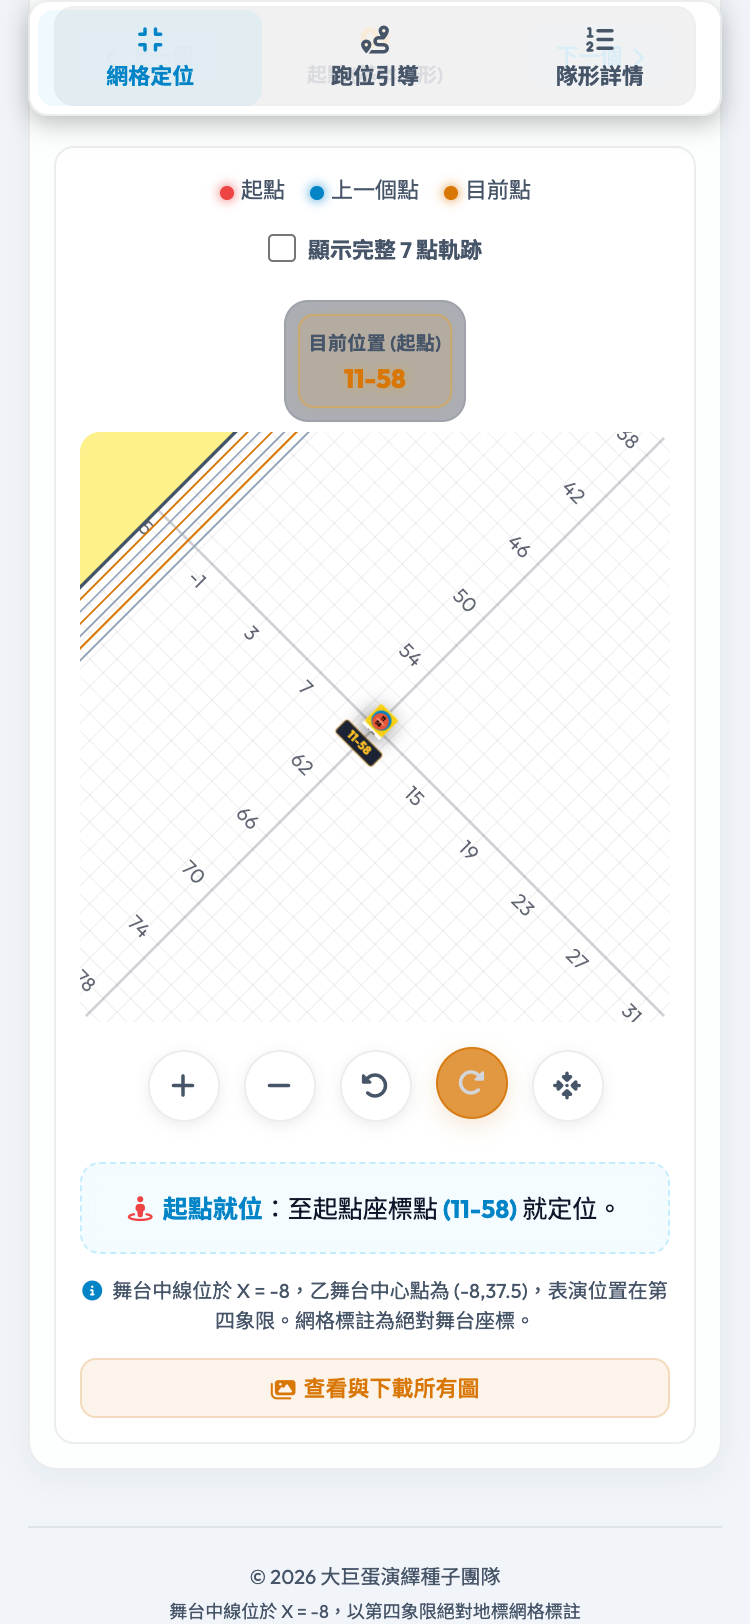
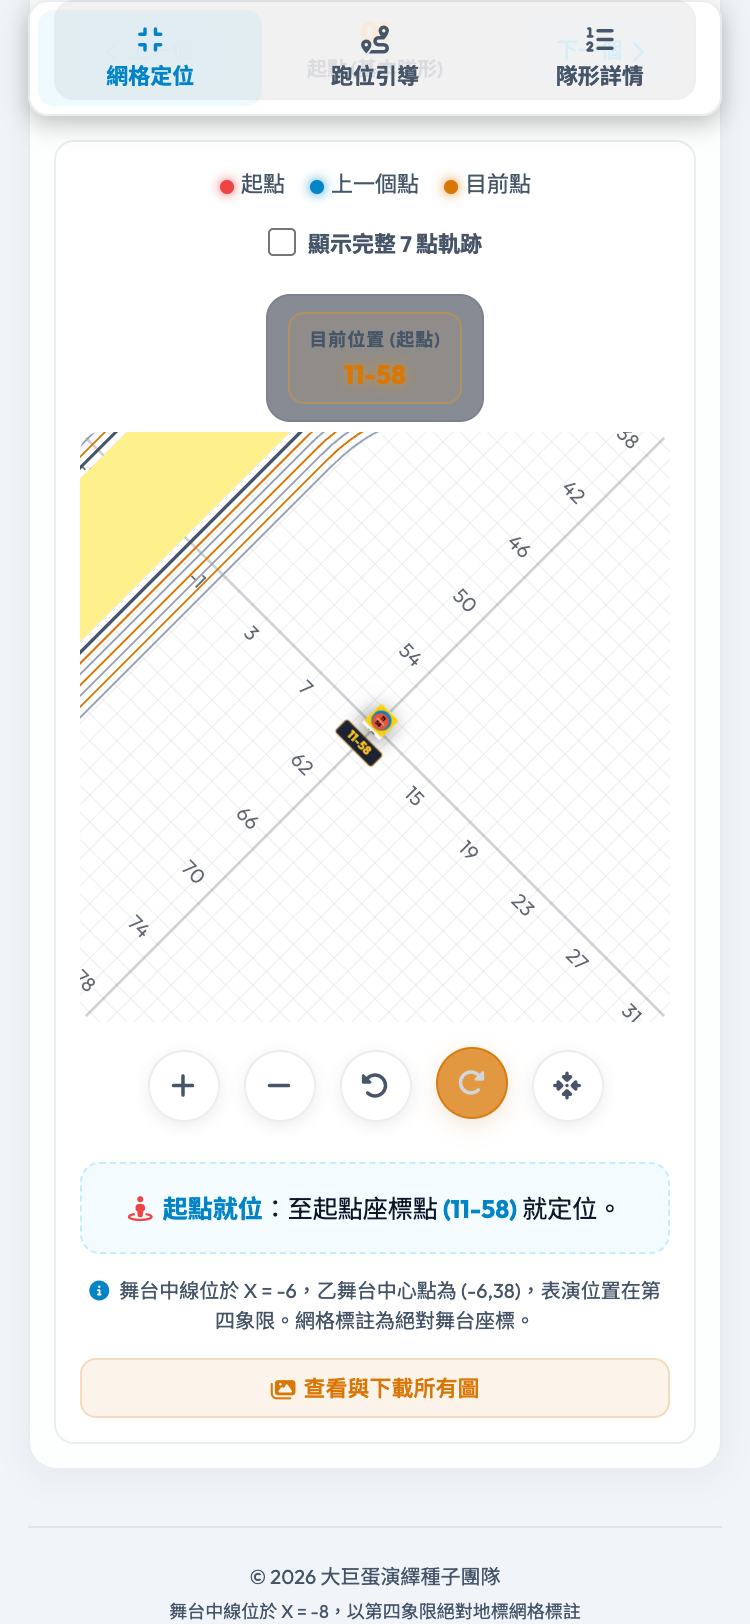
data: import 1217 performers roster update; regenerate screenshots and manual

Changed region(s): [[0.092, 0.0924, 0.7053, 0.431], [0.092, 0.7697, 0.8893, 0.8005], [0.092, 0.2463, 0.1533, 0.3079]]

diff --git a/data.js b/data.js
@@ -12,31 +12,31 @@ const performersData = [
   { category: "A白", id: "2-51", name: "", circle: "1.3-47.4", xingYuan: "七階東1-49.3", jingSi: "七階東2-50.5", lamp: "七階東3-50.3", noBoat: "3.8-45.8", bigV: "2.2-48.7" },
   { category: "A白", id: "2-52", name: "", circle: "0.6-48", xingYuan: "七階東1-53.6", jingSi: "四階東-50.5", lamp: "七階東4-50.6", noBoat: "3.4-46.4", bigV: "1.9-49.7" },
   { category: "A白", id: "2-53", name: "", circle: "9.9-45.2", xingYuan: "七階東1-54.5", jingSi: "六階東-52", lamp: "七階東3-50.8", noBoat: "3-47.2", bigV: "1.1-50.4" },
-  { category: "A白", id: "3-29", name: "巫逢益", circle: "4.2-31.3", xingYuan: "3-27.8", jingSi: "乙舞台\n下層精舍八階東-38.8", lamp: "3-22.8", noBoat: "3-22.8", bigV: "7-28.0" },
-  { category: "A白", id: "3-30", name: "陳逸駿", circle: "4.8-32.2", xingYuan: "3-28.6", jingSi: "乙舞台\n下層精舍六階東-39", lamp: "3-23.6", noBoat: "3-23.6", bigV: "6.6-28.9" },
+  { category: "A白", id: "3月29日", name: "巫逢益", circle: "4.2-31.3", xingYuan: "3-27.8", jingSi: "乙舞台\n下層精舍八階東-38.8", lamp: "3-22.8", noBoat: "3-22.8", bigV: "7-28.0" },
+  { category: "A白", id: "3月30日", name: "陳逸駿", circle: "4.8-32.2", xingYuan: "3-28.6", jingSi: "乙舞台\n下層精舍六階東-39", lamp: "3-23.6", noBoat: "3-23.6", bigV: "6.6-28.9" },
   { category: "A白", id: "3-47", name: "張植翔", circle: "4.8-44.8", xingYuan: "七階東2-52.4", jingSi: "乙舞台\n下層精舍二階東-39.4", lamp: "二階東-49.4", noBoat: "6.2-45.2", bigV: "4.9-40.5" },
   { category: "A白", id: "3-48", name: "林仕豪", circle: "4.3-45.7", xingYuan: "七階東2-53.2", jingSi: "乙舞台\n下層精舍四階東-39.2", lamp: "一階東-50.6", noBoat: "5.8-45.8", bigV: "4.4-41.5" },
   { category: "A白", id: "3-49", name: "林文華", circle: "3.6-46.5", xingYuan: "七階東2-54", jingSi: "六階東-49", lamp: "三階東-49.6", noBoat: "5.4-46.6", bigV: "4-42.3" },
   { category: "A白", id: "3-50", name: "", circle: "3-47.2", xingYuan: "七階東2-54.8", jingSi: "二階東-49", lamp: "五階東-50", noBoat: "4.8-47.4", bigV: "6.2-40.5" },
   { category: "A白", id: "3-51", name: "", circle: "2.2-47.9", xingYuan: "七階東2-55.8", jingSi: "六階東-50.5", lamp: "六階東-51.6", noBoat: "4.4-48.2", bigV: "5.8-41.5" },
   { category: "A白", id: "3-52", name: "", circle: "1.5-48.5", xingYuan: "七階東2-56.6", jingSi: "二階東-50.5", lamp: "七階東-51.4", noBoat: "3.8-48.8", bigV: "5.2-42.4" },
-  { category: "A白", id: "7-29", name: "吳敏綺", circle: "4.9-26.3", xingYuan: "4月25日", jingSi: "7月29日", lamp: "7-22.8", noBoat: "7-22.8", bigV: "8.8-32.5" },
-  { category: "A白", id: "7-30", name: "黃靖宜", circle: "5.7-27", xingYuan: "4-25.8", jingSi: "7月30日", lamp: "7-23.6", noBoat: "7-23.6", bigV: "8.2-33.2" },
-  { category: "A白", id: "7-31", name: "吳若綺", circle: "6.3-27.8", xingYuan: "4-26.6", jingSi: "7月31日", lamp: "7-24.4", noBoat: "7-24.4", bigV: "7.9-34.2" },
+  { category: "A白", id: "7月29日", name: "吳敏綺", circle: "4.9-26.3", xingYuan: "4月25日", jingSi: "7月29日", lamp: "7-22.8", noBoat: "7-22.8", bigV: "8.8-32.5" },
+  { category: "A白", id: "7月30日", name: "黃靖宜", circle: "5.7-27", xingYuan: "4-25.8", jingSi: "7月30日", lamp: "7-23.6", noBoat: "7-23.6", bigV: "8.2-33.2" },
+  { category: "A白", id: "7月31日", name: "吳若綺", circle: "6.3-27.8", xingYuan: "4-26.6", jingSi: "7月31日", lamp: "7-24.4", noBoat: "7-24.4", bigV: "7.9-34.2" },
   { category: "A白", id: "7-32", name: "吳頤晨", circle: "6.9-28.6", xingYuan: "4-27.4", jingSi: "7-32", lamp: "7-25.2", noBoat: "7-25.2", bigV: "7.5-35.2" },
   { category: "A白", id: "7-33", name: "楊仙榮", circle: "7.5-29.4", xingYuan: "4-28.2", jingSi: "7-33", lamp: "7月26日", noBoat: "7月26日", bigV: "7.1-36.1" },
   { category: "A白", id: "7-34", name: "買渝瑩", circle: "8.1-30.3", xingYuan: "4月29日", jingSi: "7-34", lamp: "7-26.8", noBoat: "7-26.8", bigV: "6.7-37" },
   { category: "A白", id: "7-35", name: "賴怡秀", circle: "4-35", xingYuan: "8-46.2", jingSi: "7-35", lamp: "十四階小帆-37.3", noBoat: "2.9-32.6", bigV: "6.2-37.9" },
   { category: "A白", id: "7-36", name: "許雅茜", circle: "4.3-36", xingYuan: "8-47", jingSi: "7-36", lamp: "十四階小帆-38.1", noBoat: "3.5-33.7", bigV: "5.8-38.8" },
-  { category: "A白", id: "8-29", name: "葉莉涵", circle: "8-28.5", xingYuan: "5-24.6", jingSi: "8月29日", lamp: "8-22.8", noBoat: "8-22.8", bigV: "10.1-32.5" },
-  { category: "A白", id: "8-30", name: "陳玥汝", circle: "8.7-29.4", xingYuan: "5-25.4", jingSi: "8月30日", lamp: "8-23.6", noBoat: "8-23.6", bigV: "9.7-33.2" },
-  { category: "A白", id: "8-31", name: "周宥妤", circle: "32.2-30.3", xingYuan: "5-26.2", jingSi: "8月31日", lamp: "8-24.4", noBoat: "8-24.4", bigV: "9.2-34.2" },
+  { category: "A白", id: "8月29日", name: "葉莉涵", circle: "8-28.5", xingYuan: "5-24.6", jingSi: "8月29日", lamp: "8-22.8", noBoat: "8-22.8", bigV: "10.1-32.5" },
+  { category: "A白", id: "8月30日", name: "陳玥汝", circle: "8.7-29.4", xingYuan: "5-25.4", jingSi: "8月30日", lamp: "8-23.6", noBoat: "8-23.6", bigV: "9.7-33.2" },
+  { category: "A白", id: "8月31日", name: "周宥妤", circle: "32.2-30.3", xingYuan: "5-26.2", jingSi: "8月31日", lamp: "8-24.4", noBoat: "8-24.4", bigV: "9.2-34.2" },
   { category: "A白", id: "8-32", name: "李曉如", circle: "32.6-31.2", xingYuan: "5-37", jingSi: "8-32", lamp: "8-25.2", noBoat: "8-25.2", bigV: "8.9-35.2" },
   { category: "A白", id: "8-33", name: "吳桂英", circle: "8.6-31.2", xingYuan: "5-27.8", jingSi: "8-33", lamp: "8月26日", noBoat: "8月26日", bigV: "8.3-36.1" },
   { category: "A白", id: "8-34", name: "莊錦幸", circle: "9-32.1", xingYuan: "5-28.6", jingSi: "8-34", lamp: "8-26.8", noBoat: "8-26.8", bigV: "7.9-37" },
   { category: "A白", id: "8-35", name: "曾彥禎", circle: "4.5-33.6", xingYuan: "9-46.8", jingSi: "8-35", lamp: "十四階小帆-37", noBoat: "3.8-32.9", bigV: "7.5-37.9" },
-  { category: "A白", id: "9-29", name: "葉宜欣", circle: "9.5-28.9", xingYuan: "6-24.2", jingSi: "9月29日", lamp: "9-22.8", noBoat: "9-22.8", bigV: "12.3-41.5" },
-  { category: "A白", id: "9-30", name: "周育嫻", circle: "10-29.8", xingYuan: "6月25日", jingSi: "9月30日", lamp: "9-23.6", noBoat: "9-23.6", bigV: "11.9-42.2" },
+  { category: "A白", id: "9月29日", name: "葉宜欣", circle: "9.5-28.9", xingYuan: "6-24.2", jingSi: "9月29日", lamp: "9-22.8", noBoat: "9-22.8", bigV: "12.3-41.5" },
+  { category: "A白", id: "9月30日", name: "周育嫻", circle: "10-29.8", xingYuan: "6月25日", jingSi: "9月30日", lamp: "9-23.6", noBoat: "9-23.6", bigV: "11.9-42.2" },
   { category: "A白", id: "9-31", name: "鄒燕", circle: "10.4-30.6", xingYuan: "6-25.8", jingSi: "9-31", lamp: "9-24.4", noBoat: "9-24.4", bigV: "11.4-43.2" },
   { category: "A白", id: "9-32", name: "宋水蘭", circle: "10.9-31.6", xingYuan: "6-26.6", jingSi: "9-32", lamp: "9-25.2", noBoat: "9-25.2", bigV: "11.1-44.1" },
   { category: "A白", id: "9-33", name: "鄭喬倪", circle: "10-32.2", xingYuan: "6-27.4", jingSi: "9-33", lamp: "9月26日", noBoat: "9月26日", bigV: "10.6-45" },
@@ -102,21 +102,21 @@ const performersData = [
   { category: "A白", id: "27-33", name: "", circle: "29.1-34.4", xingYuan: "21-29", jingSi: "27-33", lamp: "27-26", noBoat: "27-26", bigV: "23.1-31.6" },
   { category: "A白", id: "27-34", name: "", circle: "29.2-35.4", xingYuan: "21-29.8", jingSi: "27-34", lamp: "27-26.8", noBoat: "27-26.8", bigV: "22.8-32.5" },
   { category: "A白", id: "27-35", name: "", circle: "29.3-36.4", xingYuan: "12-11.4", jingSi: "27-35", lamp: "6.2-34", noBoat: "10.8-38.8", bigV: "17-44.1" },
-  { category: "A藍", id: "4-29", name: "邱崇賢", circle: "4.5-30", xingYuan: "9-31.4", jingSi: "4月29日", lamp: "4-22.8", noBoat: "4-22.8", bigV: "3.9-26.1" },
-  { category: "A藍", id: "4-30", name: "黃鴻麟", circle: "5.1-30.8", xingYuan: "9-32.2", jingSi: "4月30日", lamp: "4-23.7", noBoat: "4-23.7", bigV: "3.4-27" },
+  { category: "A藍", id: "4月29日", name: "邱崇賢", circle: "4.5-30", xingYuan: "9-31.4", jingSi: "4月29日", lamp: "4-22.8", noBoat: "4-22.8", bigV: "3.9-26.1" },
+  { category: "A藍", id: "4月30日", name: "黃鴻麟", circle: "5.1-30.8", xingYuan: "9-32.2", jingSi: "4月30日", lamp: "4-23.7", noBoat: "4-23.7", bigV: "3.4-27" },
   { category: "A藍", id: "4-31", name: "丁秉宏", circle: "5.6-31.7", xingYuan: "9-33", jingSi: "4-31", lamp: "4-24.4", noBoat: "4-24.4", bigV: "46109" },
   { category: "A藍", id: "4-32", name: "譚文忠", circle: "6.1-32.6", xingYuan: "9-33.8", jingSi: "4-32", lamp: "4-25.2", noBoat: "4-25.2", bigV: "2.5-28.9" },
   { category: "A藍", id: "4-45", name: "", circle: "5.6-45.3", xingYuan: "2-48.2", jingSi: "4-45", lamp: "12.4-40", noBoat: "12.4-40", bigV: "3.6-40.6" },
-  { category: "A藍", id: "5-29", name: "徐建發", circle: "4.7-28.8", xingYuan: "10-28.6", jingSi: "5月29日", lamp: "5-22.8", noBoat: "5-22.8", bigV: "3.9-28.9" },
-  { category: "A藍", id: "5-30", name: "陳金傳", circle: "5.3-29.5", xingYuan: "10-29.4", jingSi: "5月30日", lamp: "5-23.7", noBoat: "5-23.7", bigV: "3.4-29.8" },
-  { category: "A藍", id: "5-31", name: "陳膺洲", circle: "5.9-30.4", xingYuan: "10-30.2", jingSi: "5月31日", lamp: "5-24.4", noBoat: "5-24.4", bigV: "3-30.7" },
+  { category: "A藍", id: "5月29日", name: "徐建發", circle: "4.7-28.8", xingYuan: "10-28.6", jingSi: "5月29日", lamp: "5-22.8", noBoat: "5-22.8", bigV: "3.9-28.9" },
+  { category: "A藍", id: "5月30日", name: "陳金傳", circle: "5.3-29.5", xingYuan: "10-29.4", jingSi: "5月30日", lamp: "5-23.7", noBoat: "5-23.7", bigV: "3.4-29.8" },
+  { category: "A藍", id: "5月31日", name: "陳膺洲", circle: "5.9-30.4", xingYuan: "10-30.2", jingSi: "5月31日", lamp: "5-24.4", noBoat: "5-24.4", bigV: "3-30.7" },
   { category: "A藍", id: "5-32", name: "陳北丹", circle: "6.5-31.3", xingYuan: "10月31日", jingSi: "5-32", lamp: "5-25.2", noBoat: "5-25.2", bigV: "2.6-31.6" },
   { category: "A藍", id: "5-33", name: "", circle: "6.9-32.2", xingYuan: "10-31.8", jingSi: "5-33", lamp: "46168", noBoat: "46168", bigV: "2.2-29.8" },
   { category: "A藍", id: "5-34", name: "", circle: "7.3-33", xingYuan: "10-32.6", jingSi: "5-34", lamp: "5-26.8", noBoat: "5-26.8", bigV: "1.7-30.7" },
   { category: "A藍", id: "5-44", name: "", circle: "7.1-35.5", xingYuan: "3-47.8", jingSi: "5-44", lamp: "13.2-40", noBoat: "13.2-40", bigV: "6.8-45" },
   { category: "A藍", id: "5-45", name: "", circle: "6.4-45.8", xingYuan: "3-48.4", jingSi: "5-45", lamp: "13.2-40.8", noBoat: "13.2-40.8", bigV: "5.8-44.2" },
-  { category: "A藍", id: "6-29", name: "楊德松", circle: "4.8-27.5", xingYuan: "11-29.8", jingSi: "6月29日", lamp: "6-22.8", noBoat: "6-22.8", bigV: "7.9-28.9" },
-  { category: "A藍", id: "6-30", name: "巫文隆", circle: "5.5-28.3", xingYuan: "11-29.8", jingSi: "6月30日", lamp: "6-23.7", noBoat: "6-23.7", bigV: "7.4-29.8" },
+  { category: "A藍", id: "6月29日", name: "楊德松", circle: "4.8-27.5", xingYuan: "11-29.8", jingSi: "6月29日", lamp: "6-22.8", noBoat: "6-22.8", bigV: "7.9-28.9" },
+  { category: "A藍", id: "6月30日", name: "巫文隆", circle: "5.5-28.3", xingYuan: "11-29.8", jingSi: "6月30日", lamp: "6-23.7", noBoat: "6-23.7", bigV: "7.4-29.8" },
   { category: "A藍", id: "6-31", name: "沈朝溪", circle: "6.1-29.1", xingYuan: "11-30.7", jingSi: "6-31", lamp: "6-24.4", noBoat: "6-24.4", bigV: "7-30.7" },
   { category: "A藍", id: "6-32", name: "邱正益", circle: "6.8-29.9", xingYuan: "11-31.4", jingSi: "6-32", lamp: "6-25.2", noBoat: "6-25.2", bigV: "6.6-31.5" },
   { category: "A藍", id: "6-33", name: "", circle: "7.2-30.8", xingYuan: "11-32.1", jingSi: "6-33", lamp: "6月26日", noBoat: "6月26日", bigV: "6.1-32.5" },
@@ -131,16 +131,16 @@ const performersData = [
   { category: "A藍", id: "6-42", name: "", circle: "8.3-36", xingYuan: "2-45.8", jingSi: "6-42", lamp: "13.4-33.2", noBoat: "13.4-33.2", bigV: "5.3-37" },
   { category: "A藍", id: "6-43", name: "", circle: "6.5-33.5", xingYuan: "2-46.6", jingSi: "6-43", lamp: "13.6-34.2", noBoat: "13.6-34.2", bigV: "4.8-37.9" },
   { category: "A藍", id: "6-44", name: "", circle: "6.8-34.5", xingYuan: "2-47.3", jingSi: "6-44", lamp: "12.8-33.8", noBoat: "12.8-33.8", bigV: "6.2-46" },
-  { category: "A藍", id: "10-29", name: "張至宜", circle: "10.7-29", xingYuan: "9月25日", jingSi: "10月29日", lamp: "10-22.8", noBoat: "10-22.8", bigV: "9.8-28" },
-  { category: "A藍", id: "10-30", name: "郭淑梅", circle: "11.1-29.9", xingYuan: "12-21.4", jingSi: "10月30日", lamp: "10-23.7", noBoat: "10-23.7", bigV: "9.2-28.9" },
-  { category: "A藍", id: "10-31", name: "袁鳳琪", circle: "11.7-30.9", xingYuan: "12-22.2", jingSi: "10月31日", lamp: "10-24.4", noBoat: "10-24.4", bigV: "8.9-29.9" },
+  { category: "A藍", id: "10月29日", name: "張至宜", circle: "10.7-29", xingYuan: "9月25日", jingSi: "10月29日", lamp: "10-22.8", noBoat: "10-22.8", bigV: "9.8-28" },
+  { category: "A藍", id: "10月30日", name: "郭淑梅", circle: "11.1-29.9", xingYuan: "12-21.4", jingSi: "10月30日", lamp: "10-23.7", noBoat: "10-23.7", bigV: "9.2-28.9" },
+  { category: "A藍", id: "10月31日", name: "袁鳳琪", circle: "11.7-30.9", xingYuan: "12-22.2", jingSi: "10月31日", lamp: "10-24.4", noBoat: "10-24.4", bigV: "8.9-29.9" },
   { category: "A藍", id: "10-32", name: "游彩華", circle: "11.9-31.8", xingYuan: "12-32", jingSi: "10-32", lamp: "10-25.2", noBoat: "10-25.2", bigV: "8.5-30.7" },
   { category: "A藍", id: "10-33", name: "鄭英芳", circle: "12.2-32.8", xingYuan: "12-32.8", jingSi: "10-33", lamp: "10月26日", noBoat: "10月26日", bigV: "7.9-31.5" },
   { category: "A藍", id: "10-34", name: "蕭麗美", circle: "12.6-33.8", xingYuan: "12-33.6", jingSi: "10-34", lamp: "10-26.8", noBoat: "10-26.8", bigV: "7.5-32.3" },
   { category: "A藍", id: "10-35", name: "陳麗如", circle: "12.8-34.7", xingYuan: "9-33.6", jingSi: "10-35", lamp: "15.2-33.6", noBoat: "15.2-33.6", bigV: "8.3-38.8" },
   { category: "A藍", id: "10-36", name: "柯伸薇", circle: "7.2-36.3", xingYuan: "9-34..4", jingSi: "10-36", lamp: "14.6-34.2", noBoat: "14.6-34.2", bigV: "8-39.6" },
-  { category: "A藍", id: "11-29", name: "范秀娥", circle: "11.9-29.3", xingYuan: "10月23日", jingSi: "11月29日", lamp: "11-22.8", noBoat: "11-22.8", bigV: "12.8-29.9" },
-  { category: "A藍", id: "11-30-日", name: "葉怡君", circle: "12.3-30.2", xingYuan: "12-25.4", jingSi: "11月30日", lamp: "11-23.6", noBoat: "11-23.6", bigV: "12.3-30.7" },
+  { category: "A藍", id: "11月29日", name: "范秀娥", circle: "11.9-29.3", xingYuan: "10月23日", jingSi: "11月29日", lamp: "11-22.8", noBoat: "11-22.8", bigV: "12.8-29.9" },
+  { category: "A藍", id: "11月30日", name: "葉怡君", circle: "12.3-30.2", xingYuan: "12-25.4", jingSi: "11月30日", lamp: "11-23.6", noBoat: "11-23.6", bigV: "12.3-30.7" },
   { category: "A藍", id: "11-31", name: "呂雅婷", circle: "12.8-31.1", xingYuan: "12-26.2", jingSi: "11-31", lamp: "11-24.4", noBoat: "11-24.4", bigV: "11.9-31.5" },
   { category: "A藍", id: "11-32", name: "鄭月素", circle: "13.1-32.2", xingYuan: "12月27日", jingSi: "11-32", lamp: "11-25.2", noBoat: "11-25.2", bigV: "11.5-32.3" },
   { category: "A藍", id: "11-33", name: "吳孟曄", circle: "13.3-33", xingYuan: "12-27.8", jingSi: "11-33", lamp: "11月26日", noBoat: "11月26日", bigV: "11.1-33.3" },
@@ -1215,7 +1215,8 @@ const performersData = [
   { category: "A白", id: "3-53", name: "黃名揮", circle: "10.8-45.5", xingYuan: "-6-57.5", jingSi: "-2-52", lamp: "-2-51", noBoat: "3-51.2", bigV: "5-43.2" },
   { category: "A白", id: "3-54", name: "許銘量", circle: "10.3-46.7", xingYuan: "-6-58", jingSi: "-1-52", lamp: "-2-52", noBoat: "2.5-51.8", bigV: "4.5-44" },
   { category: "A白", id: "3-55", name: "陳志嶄", circle: "9.8-47.4", xingYuan: "-6-59", jingSi: "-1-53.5", lamp: "-1.5-51.5", noBoat: "1.8-52.4", bigV: "4-45" },
-  { category: "A白", id: "3-56", name: "高偉誠", circle: "9.3-48.4", xingYuan: "-6-60", jingSi: "-3-55", lamp: "0.4-48.4", noBoat: "5.6-47.6", bigV: "8.5-51.5" }
+  { category: "A白", id: "3-56", name: "高偉誠", circle: "9.3-48.4", xingYuan: "-6-60", jingSi: "-3-55", lamp: "0.4-48.4", noBoat: "5.6-47.6", bigV: "8.5-51.5" },
+  { category: "A白", id: "12-13", name: "", circle: "10-2", xingYuan: "10-7", jingSi: "20-7", lamp: "23-16", noBoat: "14-18", bigV: "13-12" }
 ];
 
 // Export if in node environment, otherwise make it global

diff --git a/index.html b/index.html
@@ -10,7 +10,7 @@
   <link href="https://fonts.googleapis.com/css2?family=Noto+Sans+TC:wght@400;500;700;900&family=Outfit:wght@400;500;600;700;800&display=swap" rel="stylesheet">
   <!-- FontAwesome for professional icons -->
   <link rel="stylesheet" href="https://cdnjs.cloudflare.com/ajax/libs/font-awesome/6.4.0/css/all.min.css">
-  <link rel="stylesheet" href="style.css?v=1.2.6">
+  <link rel="stylesheet" href="style.css?v=1.2.7">
 </head>
 <body>
   <!-- Ambient background glow behind the phone -->
@@ -495,9 +495,9 @@
   </div>
 
   <!-- Load Scripts -->
-  <script src="data.js?v=1.2.6"></script>
-  <script src="lyrics.js?v=1.2.6"></script>
+  <script src="data.js?v=1.2.7"></script>
+  <script src="lyrics.js?v=1.2.7"></script>
   <script src="https://cdnjs.cloudflare.com/ajax/libs/jspdf/2.5.1/jspdf.umd.min.js"></script>
-  <script src="app.js?v=1.2.6"></script>
+  <script src="app.js?v=1.2.7"></script>
 </body>
 </html>